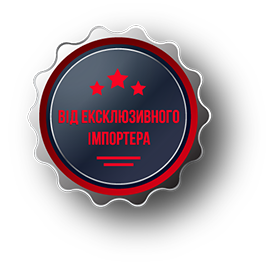
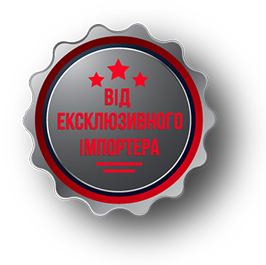
two signs changed

diff --git a/css/style.css b/css/style.css
@@ -918,7 +918,29 @@ body {
       display: flex;
       -webkit-box-pack: center;
       -ms-flex-pack: center;
-      justify-content: center; }
+      justify-content: center;
+      position: relative; }
+      .section1 .container .mainTitleWrapper .iconImg {
+        position: absolute;
+        left: -14%;
+        top: -10%;
+        width: 300px;
+        height: 300px; }
+        @media screen and (max-width: 1600px) {
+          .section1 .container .mainTitleWrapper .iconImg {
+            left: -3%;
+            top: -8%;
+            width: 250px;
+            height: 250px; } }
+        @media screen and (max-width: 1440px) {
+          .section1 .container .mainTitleWrapper .iconImg {
+            left: 4%;
+            top: -16%;
+            height: 180px;
+            width: 180px; } }
+        @media screen and (max-width: 1023px) {
+          .section1 .container .mainTitleWrapper .iconImg {
+            display: none; } }
       .section1 .container .mainTitleWrapper h1 {
         font-family: 'gothampro-black', sans-serif;
         font-size: 60px;
@@ -951,29 +973,6 @@ body {
         @media screen and (max-width: 424px) {
           .section1 .container .mainTitleWrapper h1 {
             font-size: 32px; } }
-        .section1 .container .mainTitleWrapper h1 .iconImg {
-          content: '';
-          position: absolute;
-          left: -229px;
-          top: -63px;
-          width: 300px;
-          height: 300px;
-          background-size: cover; }
-          @media screen and (max-width: 1600px) {
-            .section1 .container .mainTitleWrapper h1 .iconImg {
-              left: -178px;
-              top: -43%;
-              width: 250px;
-              height: 250px; } }
-          @media screen and (max-width: 1440px) {
-            .section1 .container .mainTitleWrapper h1 .iconImg {
-              left: -157px;
-              top: -28%;
-              height: 180px;
-              width: 180px; } }
-          @media screen and (max-width: 1023px) {
-            .section1 .container .mainTitleWrapper h1 .iconImg {
-              display: none; } }
         .section1 .container .mainTitleWrapper h1 span {
           font-size: 72px;
           text-transform: uppercase; }

diff --git a/css/style.scss b/css/style.scss
@@ -812,6 +812,29 @@ body {
       -webkit-box-pack: center;
       -ms-flex-pack: center;
       justify-content: center;
+      position: relative;
+      .iconImg {
+        position: absolute;
+        left: -14%;
+        top: -10%;
+        width: 300px;
+        height: 300px;
+        @media screen and (max-width: 1600px) {
+          left: -3%;
+          top: -8%;
+          width: 250px;
+          height: 250px;
+        }
+        @media screen and (max-width: 1440px) {
+          left: 4%;
+          top: -16%;
+          height: 180px;
+          width: 180px;
+        }
+        @media screen and (max-width: 1023px) {
+          display: none;
+        }
+      }
       h1 {
         font-family: 'gothampro-black', sans-serif;
         font-size: 60px;
@@ -843,30 +866,6 @@ body {
         }
         @media screen and (max-width: 424px) {
           font-size: 32px;
-        }
-        .iconImg {
-          content: '';
-          position: absolute;
-          left: -229px;
-          top: -63px;
-          width: 300px;
-          height: 300px;
-          background-size: cover;
-          @media screen and (max-width: 1600px) {
-            left: -178px;
-            top: -43%;
-            width: 250px;
-            height: 250px;
-          }
-          @media screen and (max-width: 1440px) {
-            left: -157px;
-            top: -28%;
-            height: 180px;
-            width: 180px;
-          }
-          @media screen and (max-width: 1023px) {
-            display: none;
-          }
         }
         span {
           font-size: 72px;

diff --git a/js/app.js b/js/app.js
@@ -4,7 +4,7 @@
 
     var cookieLang = getCookie('lang') || 'rus';
     $('.lang span[data-lang=' + cookieLang + ']').addClass('active');
-    $('h1 .iconImg').attr('src', '../img/titleicon' + cookieLang + '.png');
+    $('.mainTitleWrapper .iconImg').attr('src', '../img/titleicon' + cookieLang + '.png');
     $('.sign').attr('src', '../img/titleicon' + cookieLang + '.png');
 
     // запуск показа модального окна на увод мышки вверх

diff --git a/template/default.php b/template/default.php
@@ -50,8 +50,8 @@
     </div>
     <div class="container">
         <div class="mainTitleWrapper">
+            <img class="iconImg" src="" alt="sign">
             <h1><?= $lang['section1']['title'] ?><br>
-                <img class="iconImg" src="" alt="">
                 <span><?= $lang['section1']['BrandName'] ?></span>
             </h1>
         </div>
